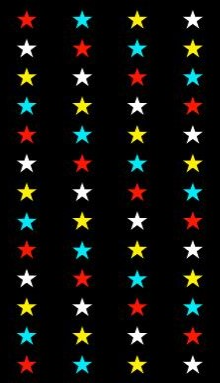
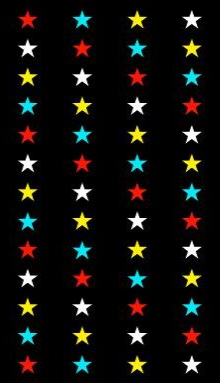
reformat.

diff --git a/code/game_list.py b/code/game_list.py
@@ -7,12 +7,16 @@ class Game_List:
     def __init__(self):
         self.frame = 0
         self.image = load_image('game_list.png')
+        self.star = load_image('star55x383.png')
+        self.star_frame = 0
 
     def get_GAME_NUM(self, GAME_NUM):
         self.frame = GAME_NUM
 
     def update(self):
-        pass
+        self.star_frame = (self.star_frame + 1) % 4
 
     def draw(self):
         self.image.clip_draw(self.frame * 723, 0, 723, 383, SCREENX // 2, SCREENY // 2, SCREENX, SCREENY)
+        self.star.clip_draw(self.star_frame * 55, 0, 55, 383, 100, SCREENY // 2, 120, SCREENY)
+        self.star.clip_draw(self.star_frame * 55, 0, 55, 383, 1815, SCREENY // 2, 120, SCREENY)
